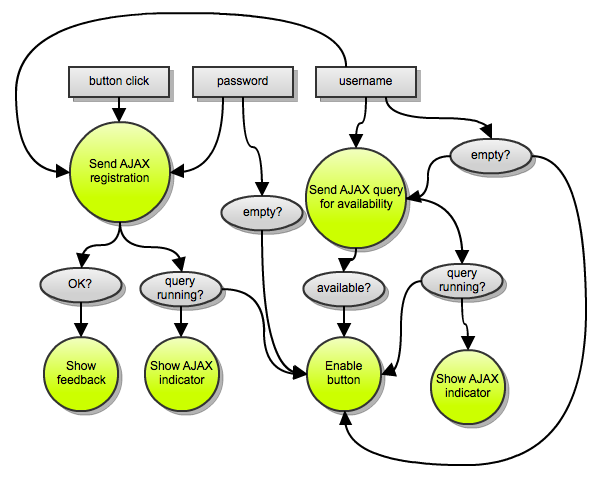
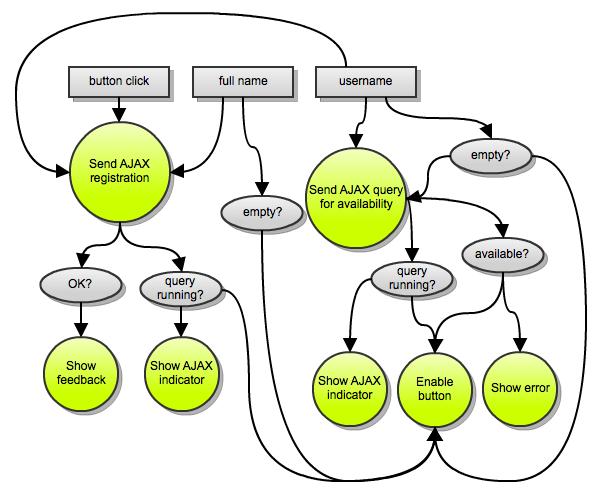
pass 2

diff --git a/slides.md b/slides.md
@@ -19,28 +19,31 @@
 
 !SLIDE bullets incremental
 #fp - lists
-* filter, map, fold, zip, >>=
+* filter, map, fold, zip, flatMap
 
 !SLIDE bullets incremental
 #frp - events
-* filter, map, scan, merge, combine, >>=
+* filter, map, scan, merge, combine, flatMap
 
 !SLIDE bullets incremental
 #bacon.js
-* @raimohanska
-* open-source
 
-!SLIDE 
+!SLIDE bullets incremental
 #EventStream
-
-!SLIDE
-#stream-of-events (really)
+* Observer
+* filter, map, scan, merge, flatMap, toProperty
 
 !SLIDE
 #Property
 
 !SLIDE
 #value-as-function-of-time
+
+!SLIDE
+#Observer
+
+!SLIDE
+#current value + changes
 
 !SLIDE bullets
 * mouseClicks :: EventStream
@@ -56,4 +59,78 @@
 ![regform-thorough](images/registration-form-thorough.png)
 
 !SLIDE center
-![pacman](images/bacon-of-bacon.jpeg)
+![bacon](images/bacon-of-bacon.jpeg)
+
+!SLIDE
+#let's get started
+
+!SLIDE bullets
+#Get the code (TODO URL)
+* Try the username property
+
+!SLIDE bullets
+#Disable submit button while username missing
+
+!SLIDE bullets
+* usernameMissing :: Property
+* usernameMissing.onValue(..)
+
+!SLIDE
+# Disable also if full name missing
+
+!SLIDE bullets
+* fullname :: Property
+* fullnameMissing :: Property
+* Property.or
+
+!SLIDE
+# Query for username availability
+
+!SLIDE bullets incremental
+* AJAX GET /usernameavailable/username
+* username.changes().map(..).ajax()
+* usernameAvailable :: Property
+
+!SLIDE
+# Disable button if username unavailable
+
+!SLIDE bullets
+* Property.not()
+* Property.or()
+
+!SLIDE
+# Show error if username unavailable
+
+!SLIDE bullets center
+* jQuery.toggle
+* id = username-unavailable
+
+!SLIDE
+# Show AJAX indicator
+
+!SLIDE bullets center
+* `#username .ajax`
+
+!SLIDE
+# Disable button when AJAX
+
+!SLIDE
+# registrationClick stream
+
+!SLIDE bullets center
+    .do(".preventDefault")
+
+!SLIDE
+# registrationRequest stream
+
+!SLIDE bullets incremental
+* Values passed to jQuery.ajax
+* Bacon.combineTemplate
+* sampledBy(registrationClick)
+
+!SLIDE
+# Send registration
+
+!SLIDE bullets
+* AJAX POST /register
+* `#result`
